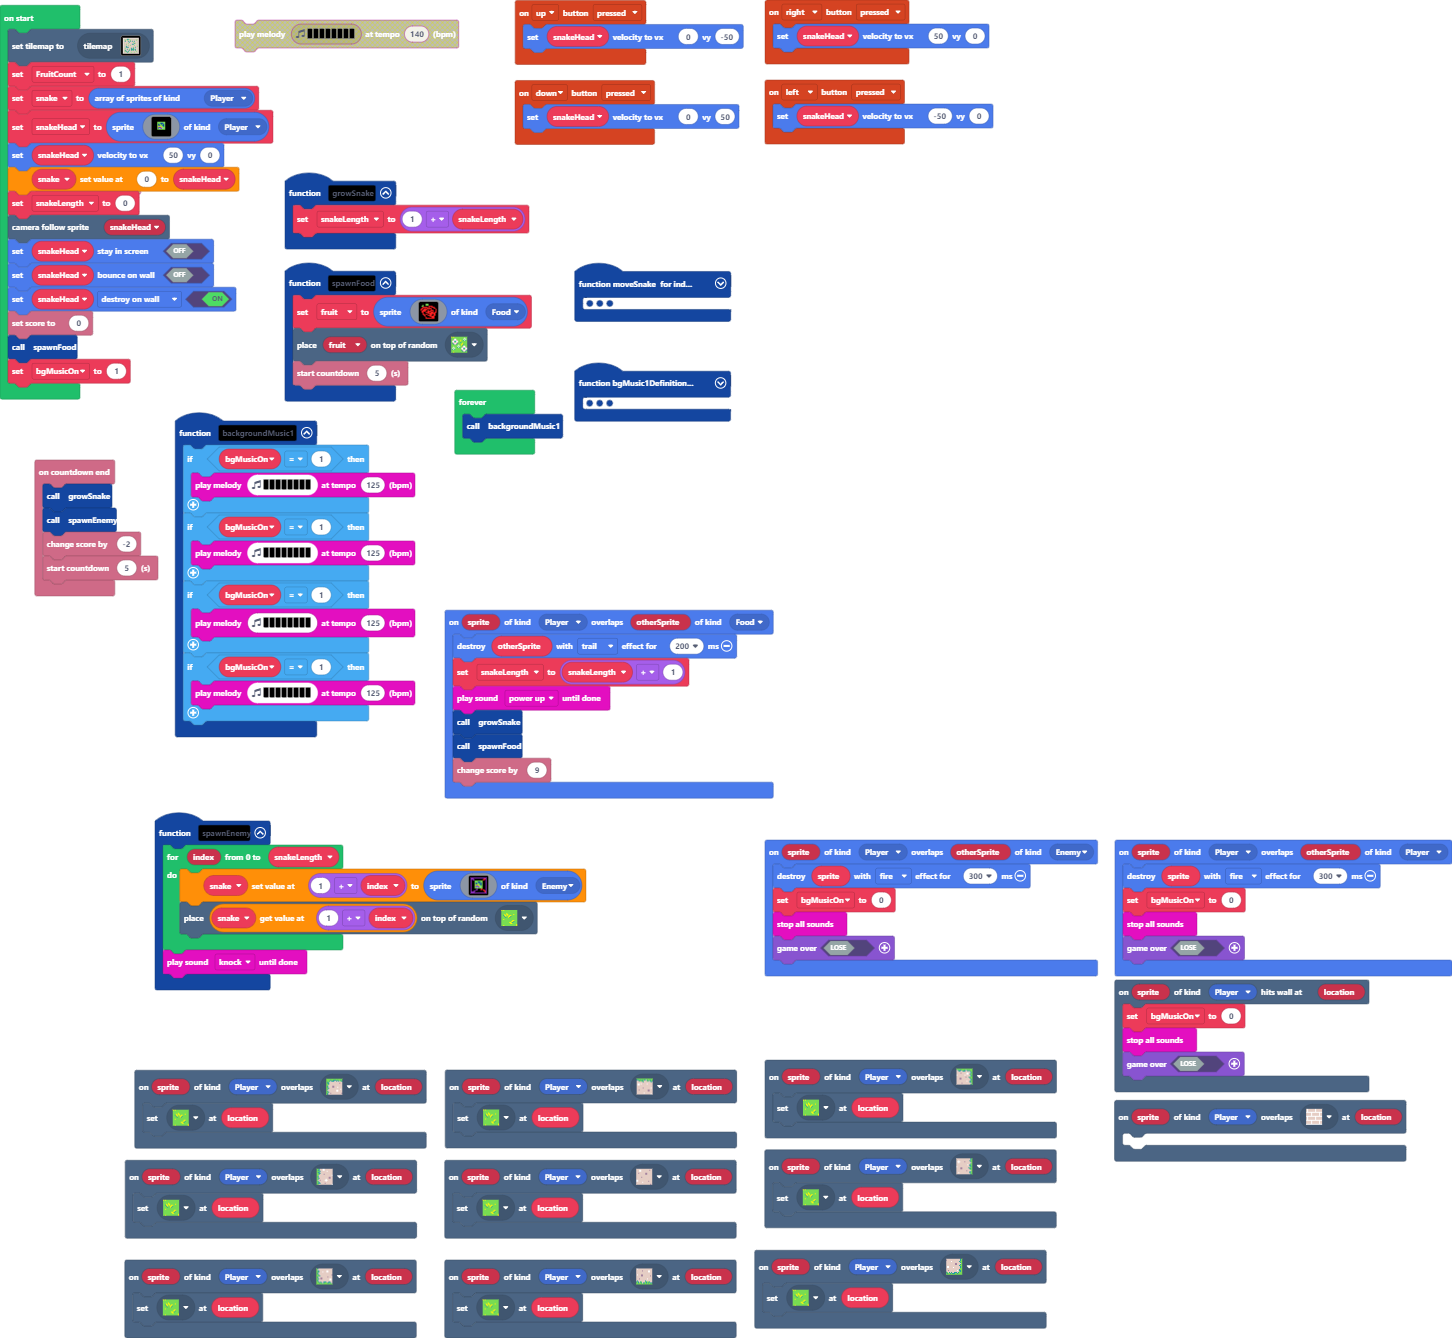
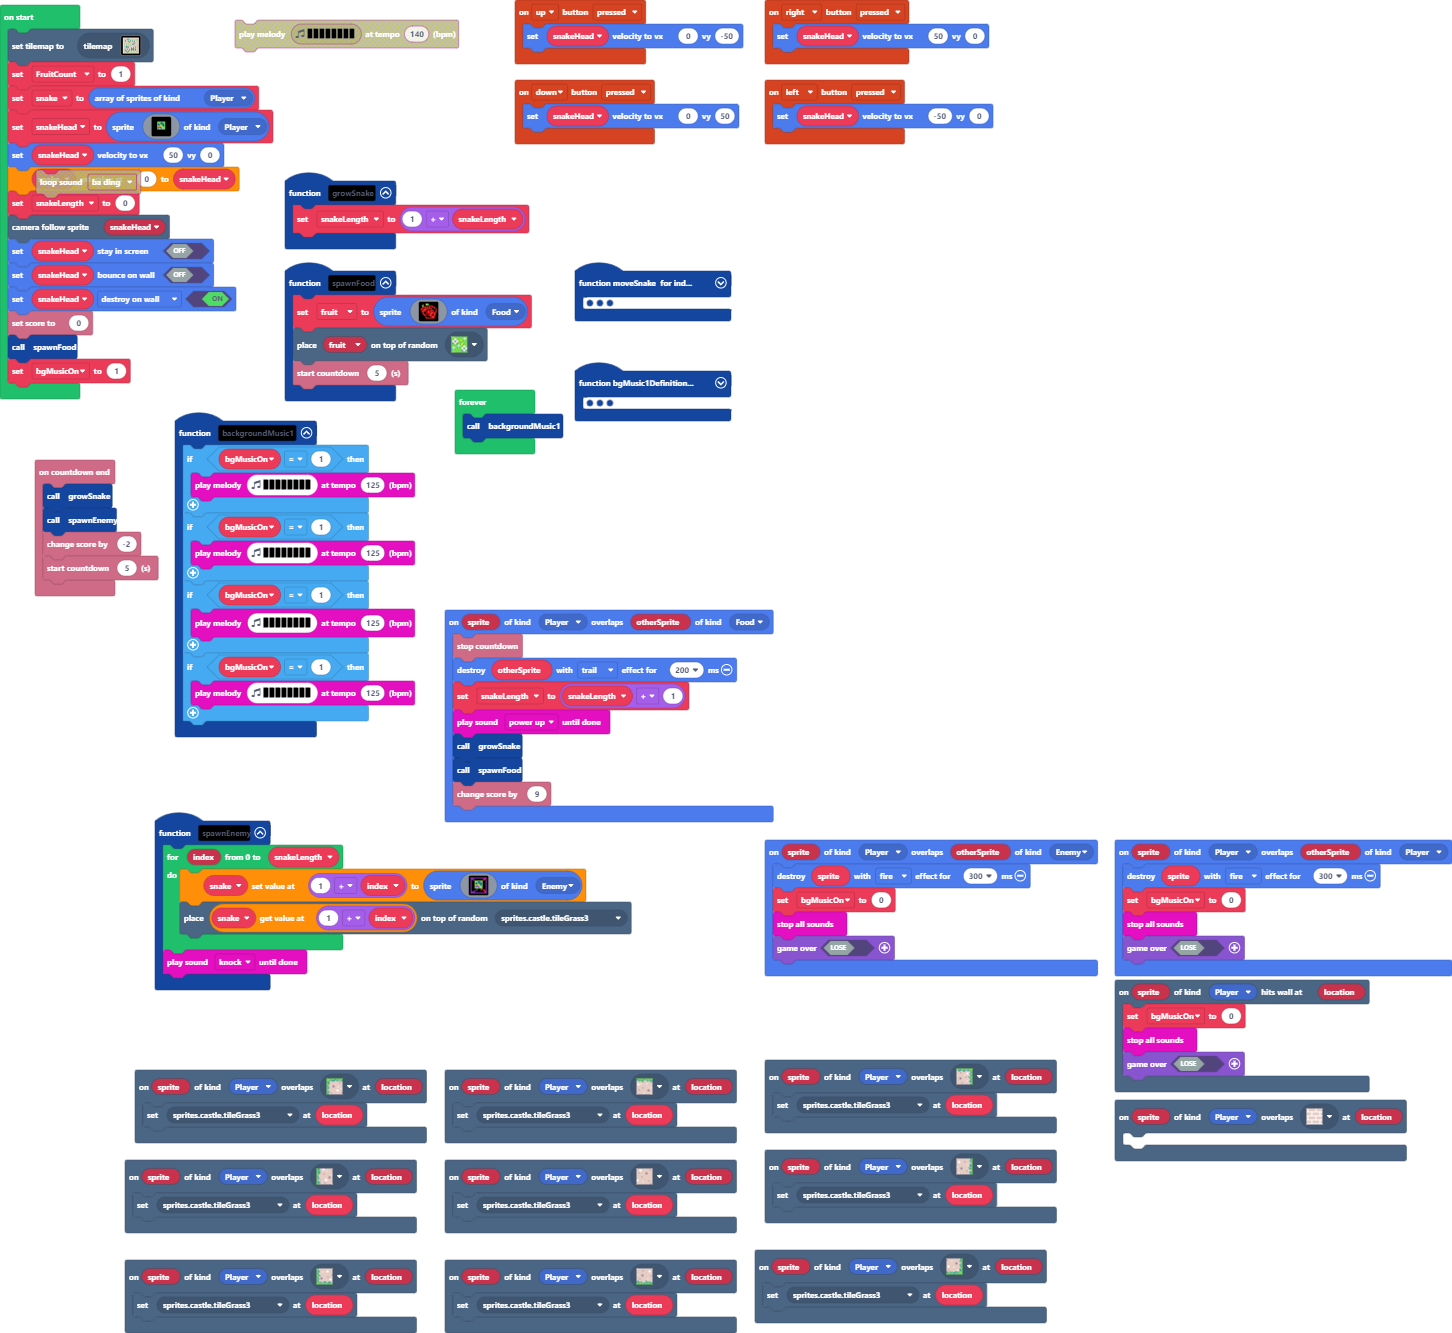
stop countdown on food capture prior to respawn

diff --git a/main.ts b/main.ts
@@ -107,6 +107,7 @@ scene.onOverlapTile(SpriteKind.Player, sprites.castle.tilePath8, function (sprit
     tiles.setTileAt(location, sprites.castle.tileGrass3)
 })
 sprites.onOverlap(SpriteKind.Player, SpriteKind.Food, function (sprite, otherSprite) {
+    info.stopCountdown()
     otherSprite.destroy(effects.trail, 200)
     snakeLength = snakeLength + 1
     music.powerUp.playUntilDone()
